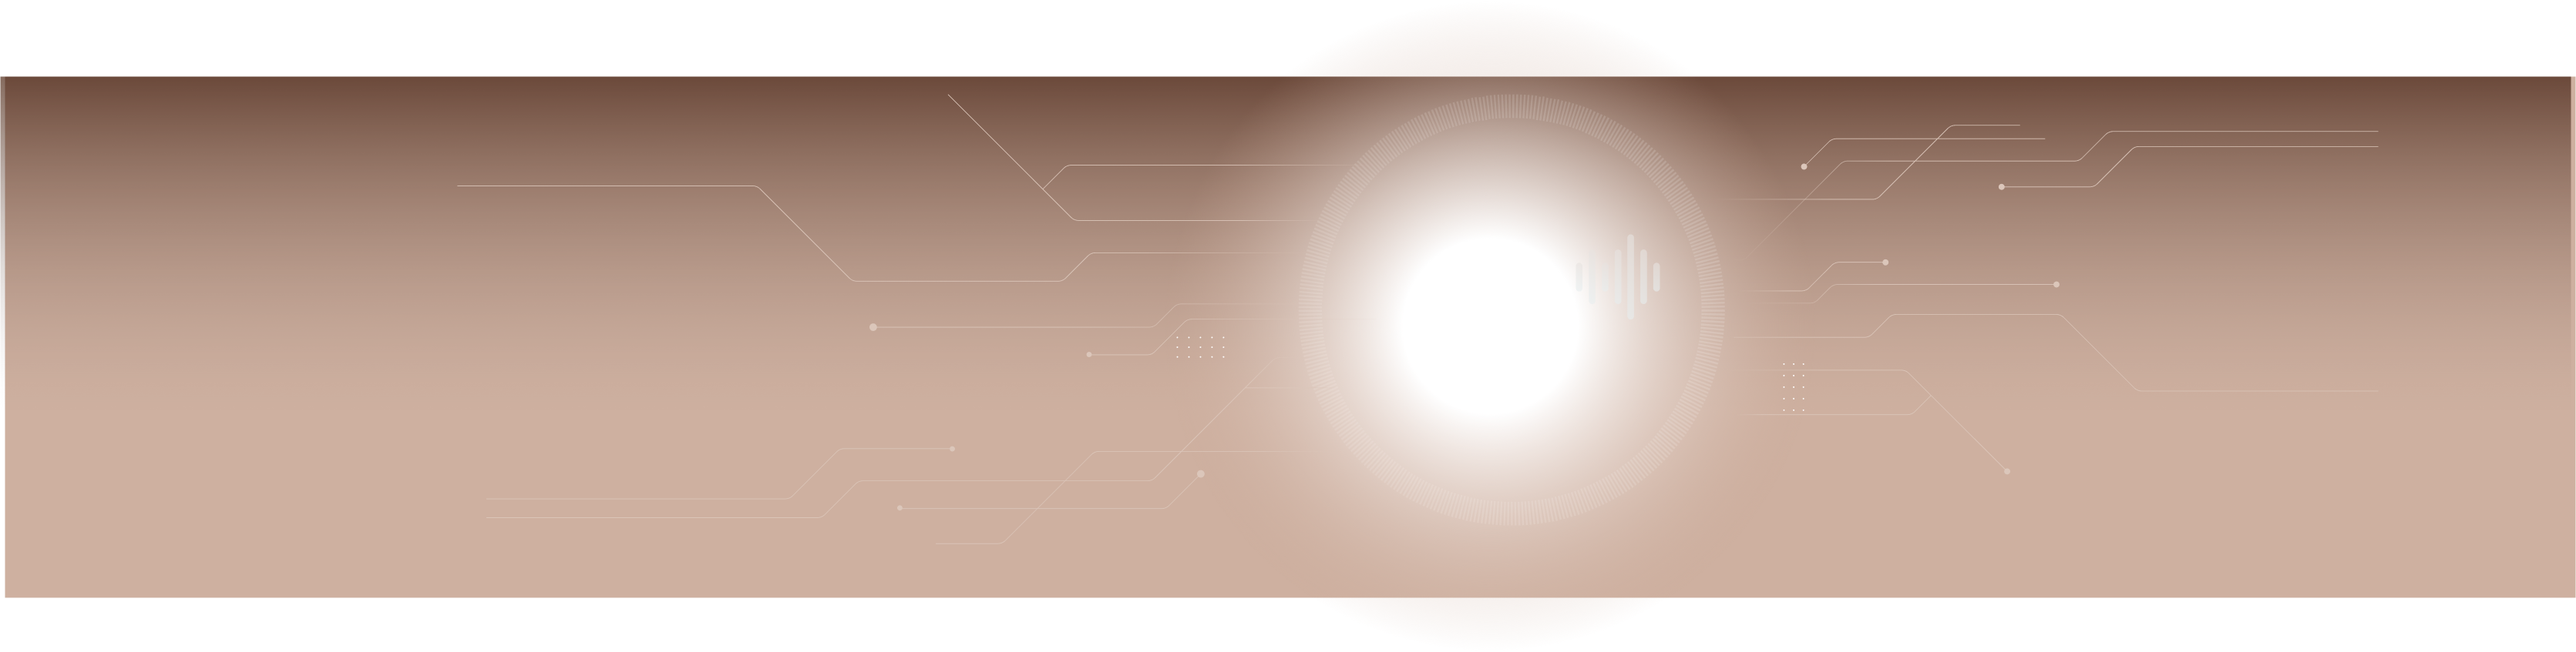
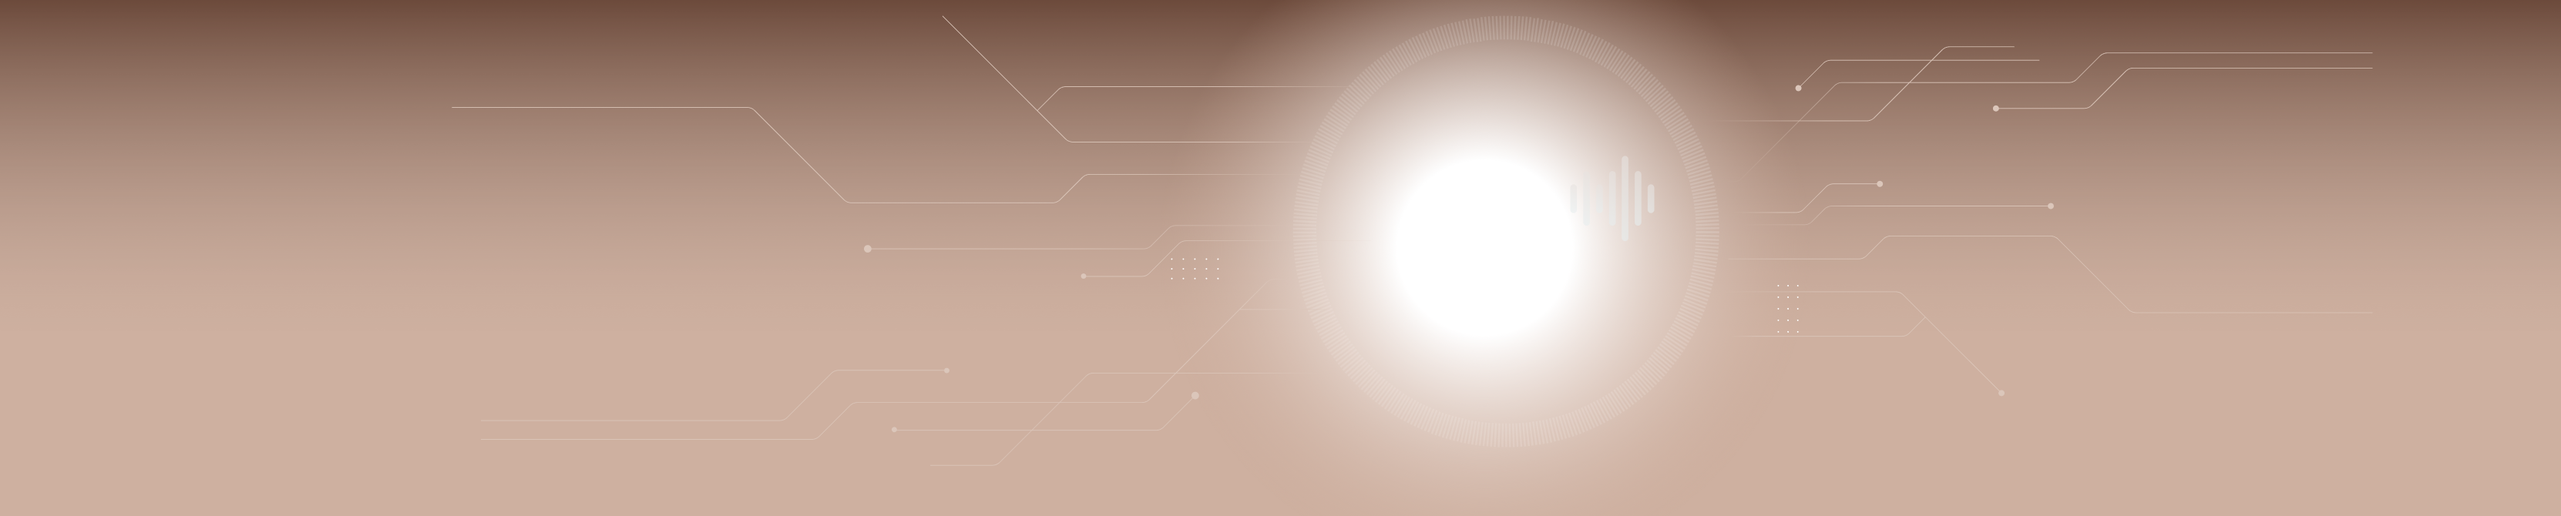
add section hero

Changed region(s): [[0.0, 0.0, 1.0, 0.4179], [0.0, 0.8955, 1.0, 1.0], [0.7749, 0.209, 0.8059, 0.2388]]

diff --git a/style.css b/style.css
@@ -7,7 +7,7 @@
 
 header{
     background-color: #9C7E6E;
-    padding: 25px 0;
+    padding: 48px 0;
 }
 
 header .container > *,
@@ -26,7 +26,7 @@ margin-right: 24px;
  }
 
  header nav{
-    /* border: 2px solid blue;*/
+    /* border: 2px solid blue; */
     vertical-align:  25px;
  }
  header nav li{
@@ -62,4 +62,61 @@ header nav li:last-child{
     text-align: center;
     vertical-align: 30px;
     margin-left: -10px;
+ }
+
+ .hero {
+    background-image: url(img/Group_3123464.png);
+    background-repeat: no-repeat;
+    background-size: cover;
+ }
+
+ .hero-left, 
+ .hero-right{
+    /* border: 2px solid blue; */
+    display: inline-block;
+ }
+
+ .hero-left{
+   width: 493px;
+   vertical-align: 95px;
+ }
+ .hero-left h1{
+   color: white;
+   font-size: 50px;
+ }
+.hero-left p{
+   color: rgba(102,69,53,1);
+   font-size: 20px;
+   font-weight: bold;
+   line-height: 24px;
+   margin:28px 0 59px 0;
+}
+.hero-left a {
+background-color: black;
+color: white;
+display: inline-block;   
+padding: 17px 33px;
+text-decoration: none;
+border-radius: 30px;
+font-weight: bold;
+font-size: 22px;
+}
+
+.hero-left a:hover{
+   box-shadow: 0 0 10px 0 rgba(0,0,0, 0.633);
+}
+ .hero-right img:first-child{
+    width: 550px; 
+ }
+ .hero-right{
+   position: relative;
+ }
+ 
+
+ 
+ .hero-right img:last-child{
+   width: 230px;
+  position: absolute;
+  right: 0px;
+  bottom: -20px;
  }

diff --git a/index.html b/index.html
@@ -30,5 +30,20 @@
     </div>
     </div>
 </header>
+
+<section class="hero">
+    <div class="container">
+        <div class="hero-left">
+            <h1> The Smartest  Teddy Bear in the world</h1>
+            <p>Nice plush toy from the outside, and smartest modern technology gadget from the inside</p>
+          <a href="" alt="">BUY NOW with FREE FAST delivery</a>
+        </div>
+        <div class="hero-right">
+        <img src="img/STeddy_02_big_3.png" alt="Картинка медведь в секции hero">
+        <img src="img/image_420.png" alt="Картинка телефон в секции hero">
+    </div>
+</div>
+
+</section>
 </body>
 </html>
